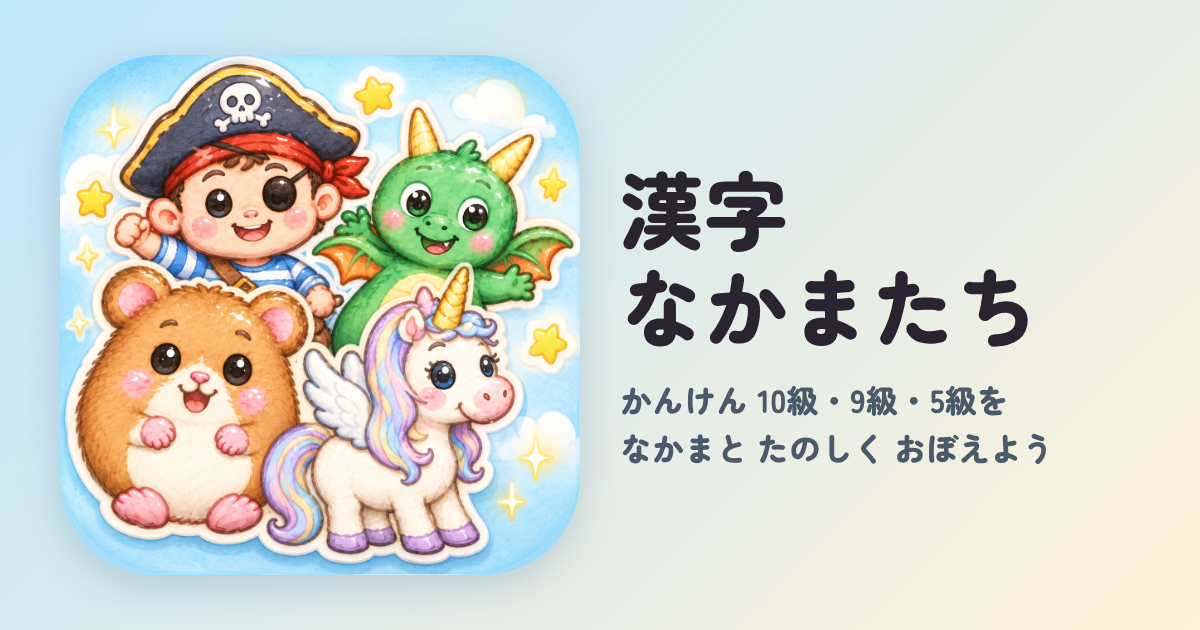
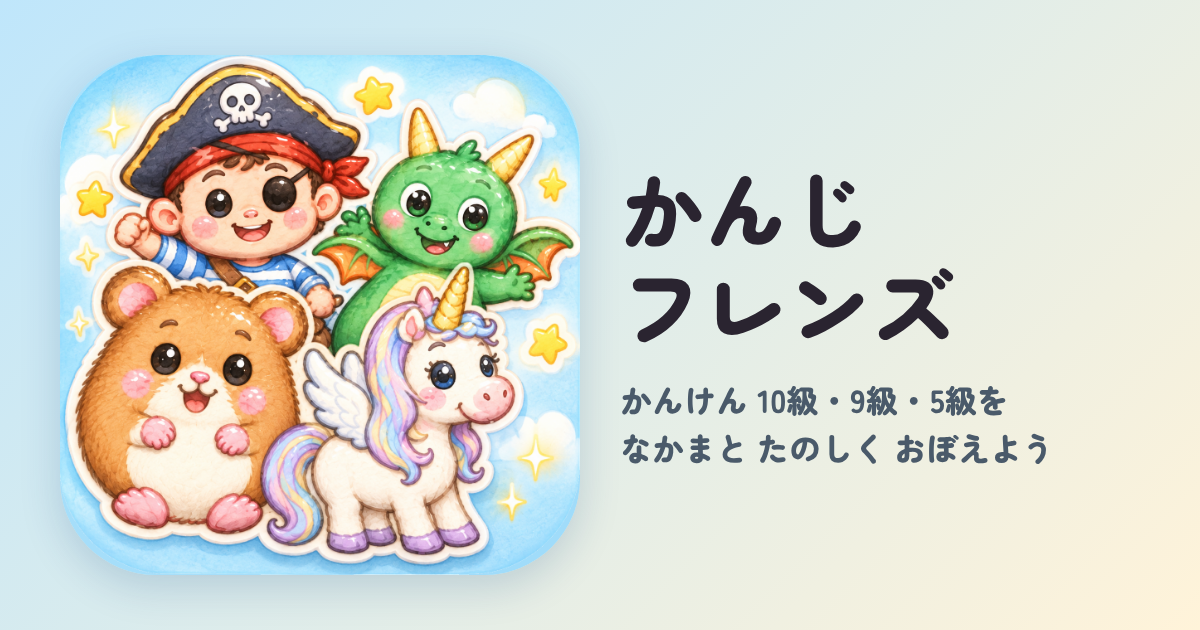
アプリ名を「かんじフレンズ」に、トップ画面をMAさんのデザインに
Claude-Session: https://claude.ai/code/session_01UiPSEeKjJp5R7PsVpchTGp

Changed region(s): [[0.5242, 0.4222, 0.8633, 0.573], [0.5242, 0.2714, 0.74, 0.3921]]

diff --git a/index.html b/index.html
@@ -2,16 +2,16 @@
 <html lang="ja">
 <head>
 <meta charset="utf-8">
-<title>漢字なかまたち</title>
+<title>かんじフレンズ</title>
 <meta name="viewport" content="width=device-width, initial-scale=1, viewport-fit=cover">
 <meta name="theme-color" content="#8A5CC2">
 <meta name="description" content="パイレーツ・ドラゴン・ハムスター・ユニコーンといっしょに、漢字検定の漢字を楽しくおぼえるゲーム">
 <meta property="og:type" content="website">
-<meta property="og:site_name" content="漢字なかまたち">
-<meta property="og:title" content="漢字なかまたち">
+<meta property="og:site_name" content="かんじフレンズ">
+<meta property="og:title" content="かんじフレンズ">
 <meta property="og:description" content="パイレーツ・ドラゴン・ハムスター・ユニコーンといっしょに、漢字検定10級・9級・5級の漢字を楽しくおぼえるゲーム">
 <meta property="og:url" content="https://mamiariumi-oss.github.io/-app/">
-<meta property="og:image" content="https://mamiariumi-oss.github.io/-app/og-image.png?v=3">
+<meta property="og:image" content="https://mamiariumi-oss.github.io/-app/og-image.png?v=4">
 <meta property="og:image:width" content="1200">
 <meta property="og:image:height" content="630">
 <meta name="twitter:card" content="summary_large_image">
@@ -21,7 +21,7 @@
 <meta name="apple-mobile-web-app-capable" content="yes">
 <meta name="mobile-web-app-capable" content="yes">
 <meta name="apple-mobile-web-app-status-bar-style" content="default">
-<meta name="apple-mobile-web-app-title" content="漢字なかまたち">
+<meta name="apple-mobile-web-app-title" content="かんじフレンズ">
 <link rel="preconnect" href="https://fonts.googleapis.com">
 <link rel="stylesheet" href="https://fonts.googleapis.com/css2?family=Zen+Maru+Gothic:wght@500;700;900&display=swap">
 <style>
@@ -68,12 +68,31 @@ h1{font-size:1.7rem;font-weight:900;margin:0;letter-spacing:.06em;text-align:cen
 .note{font-size:.78rem;color:var(--muted);text-align:center;margin:0}
 .pirate{--c:var(--pirate);--soft:var(--pirate-soft)} .dragon{--c:var(--dragon);--soft:var(--dragon-soft)}
 .hamster{--c:var(--hamster);--soft:var(--hamster-soft)} .unicorn{--c:var(--unicorn);--soft:var(--unicorn-soft)}
+
+/* かんじフレンズ トップ（MAさんのデザイン画像に合わせる） */
+body{background:linear-gradient(180deg,#FFF9F0,#FBF1E3)}
+@media (prefers-color-scheme: dark){:root:not([data-theme="light"]) body{background:var(--bg)}}
+:root[data-theme="dark"] body{background:var(--bg)}
+h1{font-size:2.05rem;display:flex;align-items:center;justify-content:center;gap:10px;letter-spacing:.04em}
+h1 .spk{color:#F2C230;font-size:1.3rem}
+.lead{display:flex;align-items:center;justify-content:center;gap:6px;font-weight:700;font-size:clamp(.72rem,3.4vw,.92rem);white-space:nowrap;margin-top:-10px}
+.lead .ray{color:#F2C230;font-weight:900}
+.cont{border-width:3px;border-radius:22px;padding:10px 14px;background:var(--surface)}
+.cont img{width:84px;height:68px;object-fit:cover;border-radius:12px}
+.grid{gap:14px}
+.chara{border:3px solid #F1E2CE;border-radius:26px;padding:12px 8px 12px;gap:4px;box-shadow:0 4px 0 rgba(160,120,70,.06)}
+.chara img{width:100%;max-width:200px;aspect-ratio:auto;height:auto;border-radius:0;background:none}
+.chara b{font-size:clamp(.95rem,4.6vw,1.2rem);letter-spacing:0;white-space:nowrap}
+.chara small{font-size:.88rem}
+@media (max-width:380px){h1{font-size:1.7rem}}
+@media (prefers-color-scheme: dark){:root:not([data-theme="light"]) .chara{border-color:var(--line)}}
+:root[data-theme="dark"] .chara{border-color:var(--line)}
 </style>
 </head>
 <body>
 <div class="wrap">
-  <h1>漢字なかまたち</h1>
-  <p class="lead">なかまをえらんで、漢字の冒険にでかけよう！</p>
+  <h1><span class="spk" aria-hidden="true">✦</span>かんじフレンズ<span class="spk" aria-hidden="true">✦</span></h1>
+  <p class="lead"><span class="ray" aria-hidden="true">＼</span>なかまを えらんで、かんじの ぼうけんに でかけよう！<span class="ray" aria-hidden="true">／</span></p>
   <a class="cont" id="cont" hidden></a>
   <div class="grid" id="grid"></div>
   <section class="panel" id="panel" hidden aria-live="polite"></section>
@@ -96,7 +115,7 @@ function info(c,k){
 }
 function render(open){
   $("grid").innerHTML = CHARS.map(c=>`<button type="button" class="chara ${c.id}" data-id="${c.id}" aria-expanded="${open===c.id}">
-      <img src="chara-${c.id}.png" alt="" width="130" height="130"><b>${c.name}</b><small>${c.kyus.map(k=>k+"級").join("・")}</small></button>`).join("");
+      <img src="chara-${c.id}.png?v=4" alt="" width="366" height="322"><b>${c.name}</b><small>${c.kyus.map(k=>k+"級").join("・")}</small></button>`).join("");
   $("grid").querySelectorAll(".chara").forEach(b=>b.addEventListener("click",()=>{ const id=b.dataset.id; render(open===id?null:id); if(open!==id) $("panel").scrollIntoView({behavior:"smooth",block:"nearest"}); }));
   const c=CHARS.find(x=>x.id===open);
   $("panel").hidden=!c;
@@ -108,7 +127,7 @@ function render(open){
 const L=last(), m=L&&L.match(/^(pirate|dragon|hamster|unicorn)-(10|9|5)$/), lc=m&&CHARS.find(c=>c.id===m[1]&&c.kyus.includes(m[2]));
 if(lc){
   $("cont").hidden=false; $("cont").href=L+".html"; $("cont").className="cont "+lc.id;
-  $("cont").innerHTML=`<img src="chara-${lc.id}.png" alt="" width="64" height="64"><div><b>つづきから：${lc.name} ${m[2]}級</b><span>${info(lc,m[2]).replace(/<\/?b>/g,"")}</span></div><i>›</i>`;
+  $("cont").innerHTML=`<img src="chara-${lc.id}.png?v=4" alt="" width="84" height="68"><div><b>つづきから：${lc.name} ${m[2]}級</b><span>${info(lc,m[2]).replace(/<\/?b>/g,"")}</span></div><i>›</i>`;
 }
 render(null);
 if("serviceWorker" in navigator){ window.addEventListener("load",()=>{ navigator.serviceWorker.register("sw.js").catch(()=>{}); }); }

diff --git a/hamster-10.html b/hamster-10.html
@@ -5,11 +5,11 @@
 <meta name="viewport" content="width=device-width, initial-scale=1, viewport-fit=cover">
 <meta name="theme-color" content="#D9701A">
 <meta property="og:type" content="website">
-<meta property="og:site_name" content="漢字なかまたち">
-<meta property="og:title" content="漢字なかまたち">
+<meta property="og:site_name" content="かんじフレンズ">
+<meta property="og:title" content="かんじフレンズ">
 <meta property="og:description" content="パイレーツ・ドラゴン・ハムスター・ユニコーンといっしょに、漢字検定10級・9級・5級の漢字を楽しくおぼえるゲーム">
 <meta property="og:url" content="https://mamiariumi-oss.github.io/-app/hamster-10.html">
-<meta property="og:image" content="https://mamiariumi-oss.github.io/-app/og-image.png?v=3">
+<meta property="og:image" content="https://mamiariumi-oss.github.io/-app/og-image.png?v=4">
 <meta property="og:image:width" content="1200">
 <meta property="og:image:height" content="630">
 <meta name="twitter:card" content="summary_large_image">
@@ -19,7 +19,7 @@
 <meta name="apple-mobile-web-app-capable" content="yes">
 <meta name="mobile-web-app-capable" content="yes">
 <meta name="apple-mobile-web-app-status-bar-style" content="default">
-<meta name="apple-mobile-web-app-title" content="漢字なかまたち">
+<meta name="apple-mobile-web-app-title" content="かんじフレンズ">
 <style>
 .home-btn{display:inline-flex;align-items:center;gap:2px;font:inherit;font-size:.85rem;font-weight:700;color:var(--muted);text-decoration:none;border:2px solid var(--line);background:var(--surface);border-radius:99px;padding:4px 12px 4px 8px;flex-basis:100%;max-width:max-content;margin-bottom:-4px}
 .home-btn:focus-visible{outline:3px solid var(--gold);outline-offset:2px}

diff --git a/unicorn-10.html b/unicorn-10.html
@@ -5,11 +5,11 @@
 <meta name="viewport" content="width=device-width, initial-scale=1, viewport-fit=cover">
 <meta name="theme-color" content="#8A5CC2">
 <meta property="og:type" content="website">
-<meta property="og:site_name" content="漢字なかまたち">
-<meta property="og:title" content="漢字なかまたち">
+<meta property="og:site_name" content="かんじフレンズ">
+<meta property="og:title" content="かんじフレンズ">
 <meta property="og:description" content="パイレーツ・ドラゴン・ハムスター・ユニコーンといっしょに、漢字検定10級・9級・5級の漢字を楽しくおぼえるゲーム">
 <meta property="og:url" content="https://mamiariumi-oss.github.io/-app/unicorn-10.html">
-<meta property="og:image" content="https://mamiariumi-oss.github.io/-app/og-image.png?v=3">
+<meta property="og:image" content="https://mamiariumi-oss.github.io/-app/og-image.png?v=4">
 <meta property="og:image:width" content="1200">
 <meta property="og:image:height" content="630">
 <meta name="twitter:card" content="summary_large_image">
@@ -19,7 +19,7 @@
 <meta name="apple-mobile-web-app-capable" content="yes">
 <meta name="mobile-web-app-capable" content="yes">
 <meta name="apple-mobile-web-app-status-bar-style" content="default">
-<meta name="apple-mobile-web-app-title" content="漢字なかまたち">
+<meta name="apple-mobile-web-app-title" content="かんじフレンズ">
 <style>
 .home-btn{display:inline-flex;align-items:center;gap:2px;font:inherit;font-size:.85rem;font-weight:700;color:var(--muted);text-decoration:none;border:2px solid var(--line);background:var(--surface);border-radius:99px;padding:4px 12px 4px 8px;flex-basis:100%;max-width:max-content;margin-bottom:-4px}
 .home-btn:focus-visible{outline:3px solid var(--gold);outline-offset:2px}

diff --git a/dragon-10.html b/dragon-10.html
@@ -5,11 +5,11 @@
 <meta name="viewport" content="width=device-width, initial-scale=1, viewport-fit=cover">
 <meta name="theme-color" content="#16855A">
 <meta property="og:type" content="website">
-<meta property="og:site_name" content="漢字なかまたち">
-<meta property="og:title" content="漢字なかまたち">
+<meta property="og:site_name" content="かんじフレンズ">
+<meta property="og:title" content="かんじフレンズ">
 <meta property="og:description" content="パイレーツ・ドラゴン・ハムスター・ユニコーンといっしょに、漢字検定10級・9級・5級の漢字を楽しくおぼえるゲーム">
 <meta property="og:url" content="https://mamiariumi-oss.github.io/-app/dragon-10.html">
-<meta property="og:image" content="https://mamiariumi-oss.github.io/-app/og-image.png?v=3">
+<meta property="og:image" content="https://mamiariumi-oss.github.io/-app/og-image.png?v=4">
 <meta property="og:image:width" content="1200">
 <meta property="og:image:height" content="630">
 <meta name="twitter:card" content="summary_large_image">
@@ -19,7 +19,7 @@
 <meta name="apple-mobile-web-app-capable" content="yes">
 <meta name="mobile-web-app-capable" content="yes">
 <meta name="apple-mobile-web-app-status-bar-style" content="default">
-<meta name="apple-mobile-web-app-title" content="漢字なかまたち">
+<meta name="apple-mobile-web-app-title" content="かんじフレンズ">
 <style>
 .home-btn{display:inline-flex;align-items:center;gap:2px;font:inherit;font-size:.85rem;font-weight:700;color:var(--muted);text-decoration:none;border:2px solid var(--line);background:var(--surface);border-radius:99px;padding:4px 12px 4px 8px;flex-basis:100%;max-width:max-content;margin-bottom:-4px}
 .home-btn:focus-visible{outline:3px solid var(--gold);outline-offset:2px}

diff --git a/hamster-5.html b/hamster-5.html
@@ -5,11 +5,11 @@
 <meta name="viewport" content="width=device-width, initial-scale=1, viewport-fit=cover">
 <meta name="theme-color" content="#D9701A">
 <meta property="og:type" content="website">
-<meta property="og:site_name" content="漢字なかまたち">
-<meta property="og:title" content="漢字なかまたち">
+<meta property="og:site_name" content="かんじフレンズ">
+<meta property="og:title" content="かんじフレンズ">
 <meta property="og:description" content="パイレーツ・ドラゴン・ハムスター・ユニコーンといっしょに、漢字検定10級・9級・5級の漢字を楽しくおぼえるゲーム">
 <meta property="og:url" content="https://mamiariumi-oss.github.io/-app/hamster-5.html">
-<meta property="og:image" content="https://mamiariumi-oss.github.io/-app/og-image.png?v=3">
+<meta property="og:image" content="https://mamiariumi-oss.github.io/-app/og-image.png?v=4">
 <meta property="og:image:width" content="1200">
 <meta property="og:image:height" content="630">
 <meta name="twitter:card" content="summary_large_image">
@@ -19,7 +19,7 @@
 <meta name="apple-mobile-web-app-capable" content="yes">
 <meta name="mobile-web-app-capable" content="yes">
 <meta name="apple-mobile-web-app-status-bar-style" content="default">
-<meta name="apple-mobile-web-app-title" content="漢字なかまたち">
+<meta name="apple-mobile-web-app-title" content="かんじフレンズ">
 <style>
 .home-btn{display:inline-flex;align-items:center;gap:2px;font:inherit;font-size:.85rem;font-weight:700;color:var(--muted);text-decoration:none;border:2px solid var(--line);background:var(--surface);border-radius:99px;padding:4px 12px 4px 8px;flex-basis:100%;max-width:max-content;margin-bottom:-4px}
 .home-btn:focus-visible{outline:3px solid var(--gold);outline-offset:2px}

diff --git a/hamster-9.html b/hamster-9.html
@@ -5,11 +5,11 @@
 <meta name="viewport" content="width=device-width, initial-scale=1, viewport-fit=cover">
 <meta name="theme-color" content="#D9701A">
 <meta property="og:type" content="website">
-<meta property="og:site_name" content="漢字なかまたち">
-<meta property="og:title" content="漢字なかまたち">
+<meta property="og:site_name" content="かんじフレンズ">
+<meta property="og:title" content="かんじフレンズ">
 <meta property="og:description" content="パイレーツ・ドラゴン・ハムスター・ユニコーンといっしょに、漢字検定10級・9級・5級の漢字を楽しくおぼえるゲーム">
 <meta property="og:url" content="https://mamiariumi-oss.github.io/-app/hamster-9.html">
-<meta property="og:image" content="https://mamiariumi-oss.github.io/-app/og-image.png?v=3">
+<meta property="og:image" content="https://mamiariumi-oss.github.io/-app/og-image.png?v=4">
 <meta property="og:image:width" content="1200">
 <meta property="og:image:height" content="630">
 <meta name="twitter:card" content="summary_large_image">
@@ -19,7 +19,7 @@
 <meta name="apple-mobile-web-app-capable" content="yes">
 <meta name="mobile-web-app-capable" content="yes">
 <meta name="apple-mobile-web-app-status-bar-style" content="default">
-<meta name="apple-mobile-web-app-title" content="漢字なかまたち">
+<meta name="apple-mobile-web-app-title" content="かんじフレンズ">
 <style>
 .home-btn{display:inline-flex;align-items:center;gap:2px;font:inherit;font-size:.85rem;font-weight:700;color:var(--muted);text-decoration:none;border:2px solid var(--line);background:var(--surface);border-radius:99px;padding:4px 12px 4px 8px;flex-basis:100%;max-width:max-content;margin-bottom:-4px}
 .home-btn:focus-visible{outline:3px solid var(--gold);outline-offset:2px}

diff --git a/pirate-10.html b/pirate-10.html
@@ -5,11 +5,11 @@
 <meta name="viewport" content="width=device-width, initial-scale=1, viewport-fit=cover">
 <meta name="theme-color" content="#1C6EA4">
 <meta property="og:type" content="website">
-<meta property="og:site_name" content="漢字なかまたち">
-<meta property="og:title" content="漢字なかまたち">
+<meta property="og:site_name" content="かんじフレンズ">
+<meta property="og:title" content="かんじフレンズ">
 <meta property="og:description" content="パイレーツ・ドラゴン・ハムスター・ユニコーンといっしょに、漢字検定10級・9級・5級の漢字を楽しくおぼえるゲーム">
 <meta property="og:url" content="https://mamiariumi-oss.github.io/-app/pirate-10.html">
-<meta property="og:image" content="https://mamiariumi-oss.github.io/-app/og-image.png?v=3">
+<meta property="og:image" content="https://mamiariumi-oss.github.io/-app/og-image.png?v=4">
 <meta property="og:image:width" content="1200">
 <meta property="og:image:height" content="630">
 <meta name="twitter:card" content="summary_large_image">
@@ -19,7 +19,7 @@
 <meta name="apple-mobile-web-app-capable" content="yes">
 <meta name="mobile-web-app-capable" content="yes">
 <meta name="apple-mobile-web-app-status-bar-style" content="default">
-<meta name="apple-mobile-web-app-title" content="漢字なかまたち">
+<meta name="apple-mobile-web-app-title" content="かんじフレンズ">
 <style>
 .home-btn{display:inline-flex;align-items:center;gap:2px;font:inherit;font-size:.85rem;font-weight:700;color:var(--muted);text-decoration:none;border:2px solid var(--line);background:var(--surface);border-radius:99px;padding:4px 12px 4px 8px;flex-basis:100%;max-width:max-content;margin-bottom:-4px}
 .home-btn:focus-visible{outline:3px solid var(--gold);outline-offset:2px}

diff --git a/unicorn-5.html b/unicorn-5.html
@@ -5,11 +5,11 @@
 <meta name="viewport" content="width=device-width, initial-scale=1, viewport-fit=cover">
 <meta name="theme-color" content="#8A5CC2">
 <meta property="og:type" content="website">
-<meta property="og:site_name" content="漢字なかまたち">
-<meta property="og:title" content="漢字なかまたち">
+<meta property="og:site_name" content="かんじフレンズ">
+<meta property="og:title" content="かんじフレンズ">
 <meta property="og:description" content="パイレーツ・ドラゴン・ハムスター・ユニコーンといっしょに、漢字検定10級・9級・5級の漢字を楽しくおぼえるゲーム">
 <meta property="og:url" content="https://mamiariumi-oss.github.io/-app/unicorn-5.html">
-<meta property="og:image" content="https://mamiariumi-oss.github.io/-app/og-image.png?v=3">
+<meta property="og:image" content="https://mamiariumi-oss.github.io/-app/og-image.png?v=4">
 <meta property="og:image:width" content="1200">
 <meta property="og:image:height" content="630">
 <meta name="twitter:card" content="summary_large_image">
@@ -19,7 +19,7 @@
 <meta name="apple-mobile-web-app-capable" content="yes">
 <meta name="mobile-web-app-capable" content="yes">
 <meta name="apple-mobile-web-app-status-bar-style" content="default">
-<meta name="apple-mobile-web-app-title" content="漢字なかまたち">
+<meta name="apple-mobile-web-app-title" content="かんじフレンズ">
 <style>
 .home-btn{display:inline-flex;align-items:center;gap:2px;font:inherit;font-size:.85rem;font-weight:700;color:var(--muted);text-decoration:none;border:2px solid var(--line);background:var(--surface);border-radius:99px;padding:4px 12px 4px 8px;flex-basis:100%;max-width:max-content;margin-bottom:-4px}
 .home-btn:focus-visible{outline:3px solid var(--gold);outline-offset:2px}

diff --git a/unicorn-9.html b/unicorn-9.html
@@ -5,11 +5,11 @@
 <meta name="viewport" content="width=device-width, initial-scale=1, viewport-fit=cover">
 <meta name="theme-color" content="#8A5CC2">
 <meta property="og:type" content="website">
-<meta property="og:site_name" content="漢字なかまたち">
-<meta property="og:title" content="漢字なかまたち">
+<meta property="og:site_name" content="かんじフレンズ">
+<meta property="og:title" content="かんじフレンズ">
 <meta property="og:description" content="パイレーツ・ドラゴン・ハムスター・ユニコーンといっしょに、漢字検定10級・9級・5級の漢字を楽しくおぼえるゲーム">
 <meta property="og:url" content="https://mamiariumi-oss.github.io/-app/unicorn-9.html">
-<meta property="og:image" content="https://mamiariumi-oss.github.io/-app/og-image.png?v=3">
+<meta property="og:image" content="https://mamiariumi-oss.github.io/-app/og-image.png?v=4">
 <meta property="og:image:width" content="1200">
 <meta property="og:image:height" content="630">
 <meta name="twitter:card" content="summary_large_image">
@@ -19,7 +19,7 @@
 <meta name="apple-mobile-web-app-capable" content="yes">
 <meta name="mobile-web-app-capable" content="yes">
 <meta name="apple-mobile-web-app-status-bar-style" content="default">
-<meta name="apple-mobile-web-app-title" content="漢字なかまたち">
+<meta name="apple-mobile-web-app-title" content="かんじフレンズ">
 <style>
 .home-btn{display:inline-flex;align-items:center;gap:2px;font:inherit;font-size:.85rem;font-weight:700;color:var(--muted);text-decoration:none;border:2px solid var(--line);background:var(--surface);border-radius:99px;padding:4px 12px 4px 8px;flex-basis:100%;max-width:max-content;margin-bottom:-4px}
 .home-btn:focus-visible{outline:3px solid var(--gold);outline-offset:2px}

diff --git a/dragon-5.html b/dragon-5.html
@@ -5,11 +5,11 @@
 <meta name="viewport" content="width=device-width, initial-scale=1, viewport-fit=cover">
 <meta name="theme-color" content="#16855A">
 <meta property="og:type" content="website">
-<meta property="og:site_name" content="漢字なかまたち">
-<meta property="og:title" content="漢字なかまたち">
+<meta property="og:site_name" content="かんじフレンズ">
+<meta property="og:title" content="かんじフレンズ">
 <meta property="og:description" content="パイレーツ・ドラゴン・ハムスター・ユニコーンといっしょに、漢字検定10級・9級・5級の漢字を楽しくおぼえるゲーム">
 <meta property="og:url" content="https://mamiariumi-oss.github.io/-app/dragon-5.html">
-<meta property="og:image" content="https://mamiariumi-oss.github.io/-app/og-image.png?v=3">
+<meta property="og:image" content="https://mamiariumi-oss.github.io/-app/og-image.png?v=4">
 <meta property="og:image:width" content="1200">
 <meta property="og:image:height" content="630">
 <meta name="twitter:card" content="summary_large_image">
@@ -19,7 +19,7 @@
 <meta name="apple-mobile-web-app-capable" content="yes">
 <meta name="mobile-web-app-capable" content="yes">
 <meta name="apple-mobile-web-app-status-bar-style" content="default">
-<meta name="apple-mobile-web-app-title" content="漢字なかまたち">
+<meta name="apple-mobile-web-app-title" content="かんじフレンズ">
 <style>
 .home-btn{display:inline-flex;align-items:center;gap:2px;font:inherit;font-size:.85rem;font-weight:700;color:var(--muted);text-decoration:none;border:2px solid var(--line);background:var(--surface);border-radius:99px;padding:4px 12px 4px 8px;flex-basis:100%;max-width:max-content;margin-bottom:-4px}
 .home-btn:focus-visible{outline:3px solid var(--gold);outline-offset:2px}

diff --git a/dragon-9.html b/dragon-9.html
@@ -5,11 +5,11 @@
 <meta name="viewport" content="width=device-width, initial-scale=1, viewport-fit=cover">
 <meta name="theme-color" content="#16855A">
 <meta property="og:type" content="website">
-<meta property="og:site_name" content="漢字なかまたち">
-<meta property="og:title" content="漢字なかまたち">
+<meta property="og:site_name" content="かんじフレンズ">
+<meta property="og:title" content="かんじフレンズ">
 <meta property="og:description" content="パイレーツ・ドラゴン・ハムスター・ユニコーンといっしょに、漢字検定10級・9級・5級の漢字を楽しくおぼえるゲーム">
 <meta property="og:url" content="https://mamiariumi-oss.github.io/-app/dragon-9.html">
-<meta property="og:image" content="https://mamiariumi-oss.github.io/-app/og-image.png?v=3">
+<meta property="og:image" content="https://mamiariumi-oss.github.io/-app/og-image.png?v=4">
 <meta property="og:image:width" content="1200">
 <meta property="og:image:height" content="630">
 <meta name="twitter:card" content="summary_large_image">
@@ -19,7 +19,7 @@
 <meta name="apple-mobile-web-app-capable" content="yes">
 <meta name="mobile-web-app-capable" content="yes">
 <meta name="apple-mobile-web-app-status-bar-style" content="default">
-<meta name="apple-mobile-web-app-title" content="漢字なかまたち">
+<meta name="apple-mobile-web-app-title" content="かんじフレンズ">
 <style>
 .home-btn{display:inline-flex;align-items:center;gap:2px;font:inherit;font-size:.85rem;font-weight:700;color:var(--muted);text-decoration:none;border:2px solid var(--line);background:var(--surface);border-radius:99px;padding:4px 12px 4px 8px;flex-basis:100%;max-width:max-content;margin-bottom:-4px}
 .home-btn:focus-visible{outline:3px solid var(--gold);outline-offset:2px}

diff --git a/pirate-5.html b/pirate-5.html
@@ -5,11 +5,11 @@
 <meta name="viewport" content="width=device-width, initial-scale=1, viewport-fit=cover">
 <meta name="theme-color" content="#1C6EA4">
 <meta property="og:type" content="website">
-<meta property="og:site_name" content="漢字なかまたち">
-<meta property="og:title" content="漢字なかまたち">
+<meta property="og:site_name" content="かんじフレンズ">
+<meta property="og:title" content="かんじフレンズ">
 <meta property="og:description" content="パイレーツ・ドラゴン・ハムスター・ユニコーンといっしょに、漢字検定10級・9級・5級の漢字を楽しくおぼえるゲーム">
 <meta property="og:url" content="https://mamiariumi-oss.github.io/-app/pirate-5.html">
-<meta property="og:image" content="https://mamiariumi-oss.github.io/-app/og-image.png?v=3">
+<meta property="og:image" content="https://mamiariumi-oss.github.io/-app/og-image.png?v=4">
 <meta property="og:image:width" content="1200">
 <meta property="og:image:height" content="630">
 <meta name="twitter:card" content="summary_large_image">
@@ -19,7 +19,7 @@
 <meta name="apple-mobile-web-app-capable" content="yes">
 <meta name="mobile-web-app-capable" content="yes">
 <meta name="apple-mobile-web-app-status-bar-style" content="default">
-<meta name="apple-mobile-web-app-title" content="漢字なかまたち">
+<meta name="apple-mobile-web-app-title" content="かんじフレンズ">
 <style>
 .home-btn{display:inline-flex;align-items:center;gap:2px;font:inherit;font-size:.85rem;font-weight:700;color:var(--muted);text-decoration:none;border:2px solid var(--line);background:var(--surface);border-radius:99px;padding:4px 12px 4px 8px;flex-basis:100%;max-width:max-content;margin-bottom:-4px}
 .home-btn:focus-visible{outline:3px solid var(--gold);outline-offset:2px}
